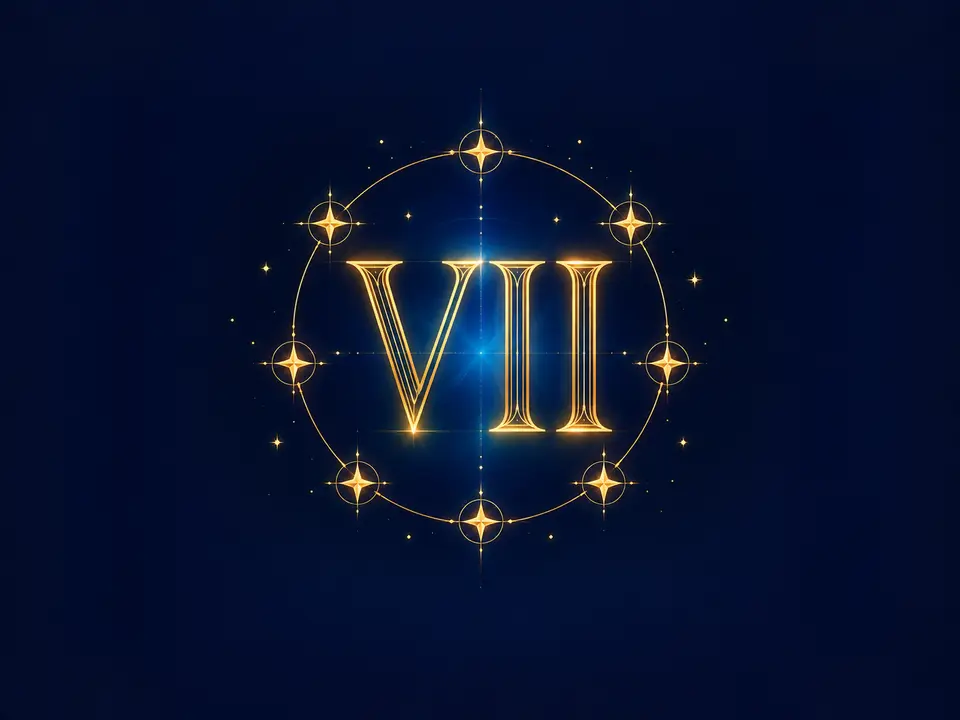
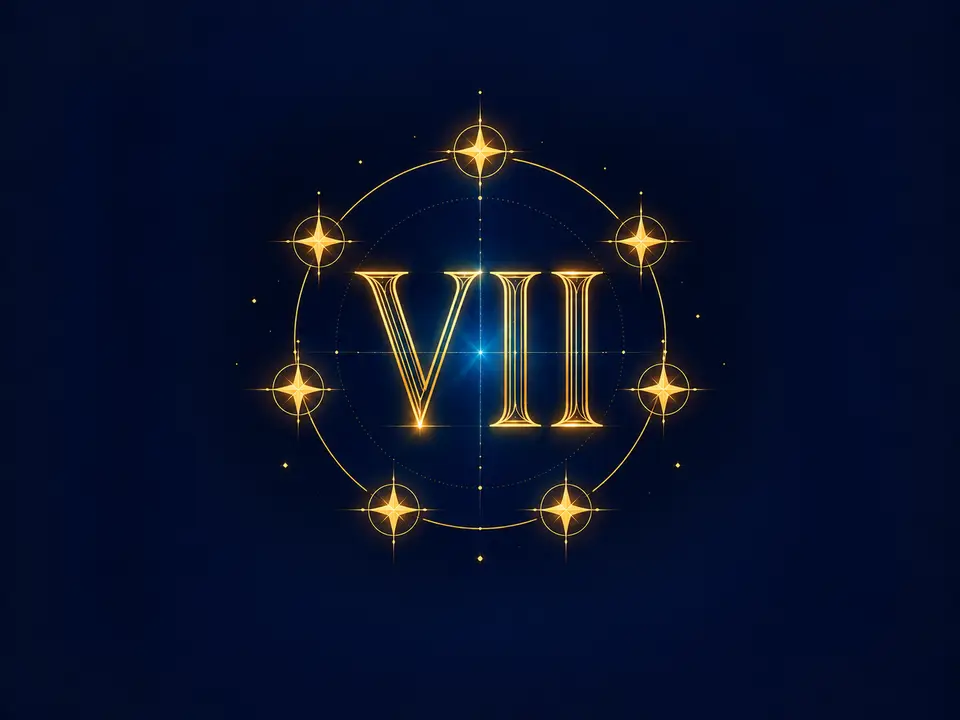
การ์ดเลข 7 ตัว: ภาพ VII ที่มีดาว 7 ดวงตรงตามชื่อศาสตร์
Claude-Session: https://claude.ai/code/session_012VN3BbfxEtvu5qFQUYZuEB

diff --git a/src/lib/systems/registry.ts b/src/lib/systems/registry.ts
@@ -35,7 +35,7 @@ export const SYSTEMS: SystemInfo[] = [
     href: "/thai-seven",
     accent: "blue",
     art: "cat-thai-seven",
-    artAlt: "ลายเส้นทองรูปเลขโรมัน VII ในวงโคจรที่มีดาวประดับ บนพื้นน้ำเงินเข้ม",
+    artAlt: "ลายเส้นทองรูปเลขโรมัน VII ในวงโคจรของดาว 7 ดวง บนพื้นน้ำเงินเข้ม",
   },
   {
     id: "zodiac",
